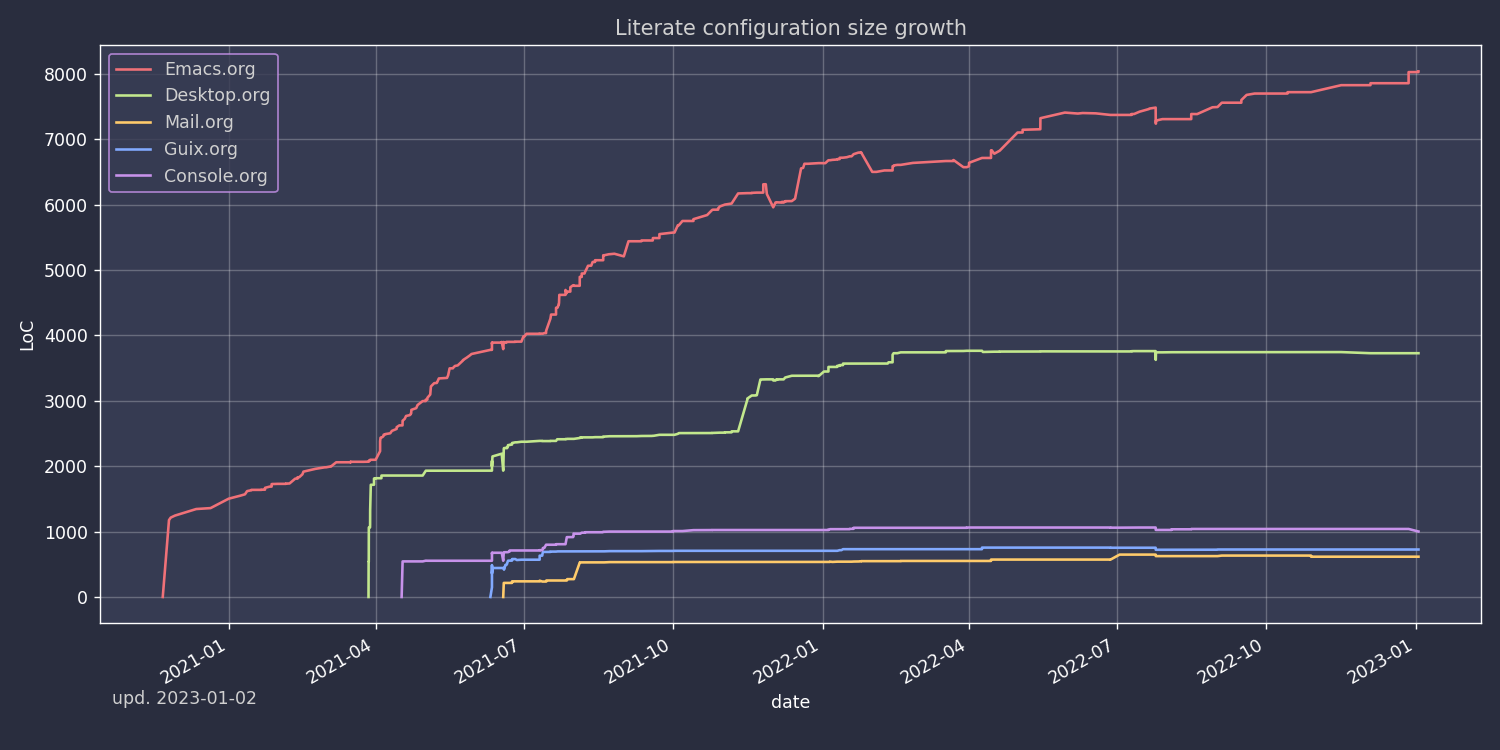
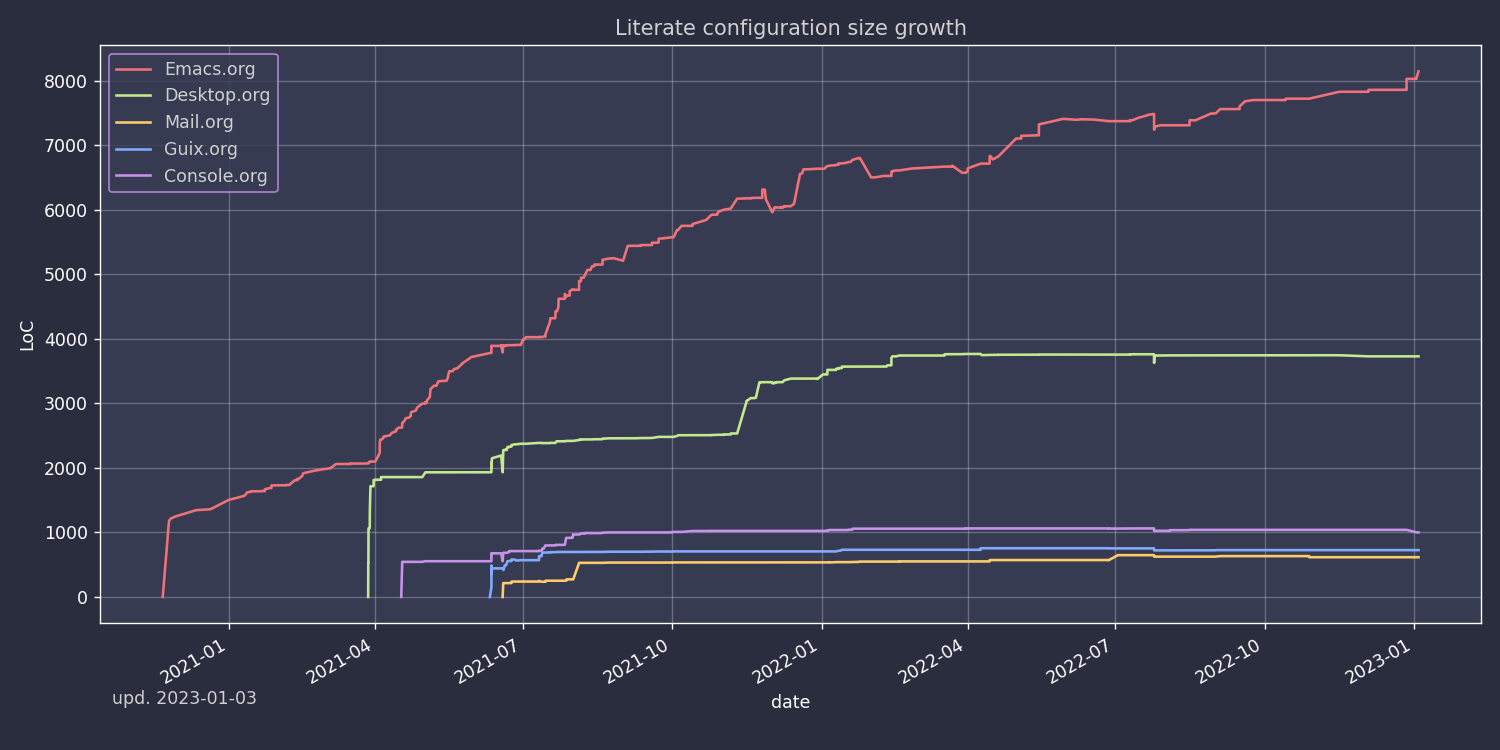
deploy: 280e0ed2e5447ba26fc20837575d41c52895d1c3

diff --git a/configs/emacs/index.html b/configs/emacs/index.html
@@ -6796,12 +6796,20 @@ Emacs is also particularly good at writing Lisp code, e.g. Clojure, Common Lisp,
 </span></span><span style="display:flex;"><span>		      (<span style="color:#008000">setq</span> <span style="color:#19177c">zone-programs</span> (<span style="color:#00f">vector</span> (<span style="color:#00f">cdr</span> <span style="color:#19177c">elem</span>)))
 </span></span><span style="display:flex;"><span>		      (<span style="color:#19177c">zone</span>))))
 </span></span></code></pre></div><h4 id="gource">Gource</h4>
-<p><a href="https://gource.io/">Gource</a> is a nice repository visualization tool.</p>
-<p>The goal of the functions below is to run the tool for multiple repos from Dired. Maybe I&rsquo;ll extract it into a separate package at some point, but I&rsquo;m fine with letting it live here for now.</p>
+<p><a href="https://gource.io/">Gource</a> is a program that draws an animated graph of users changing the repository over time.</p>
+<p>Although it can work without extra effort (just run <code>gource</code> in a <a href="https://git-scm.com/">git</a> repo), there are some tweaks that can be done:</p>
+<ul>
+<li>Gource supports using custom pictures for users. <a href="https://en.gravatar.com/">Gravatar</a> is an obvious place to get these.</li>
+<li>Occasionally, the same people have different names and/or emails in history.<br />
+It may happen when people use forges like <a href="https://gitlab.com/">GitLab</a> or just have different settings on different machines. It would be nice to merge these names.</li>
+<li>Visualizing the history of multiple repositories (e.g. frontend and backend) requires combining multiple gource logs.</li>
+</ul>
+<p>So, why not try doing that with Emacs?</p>
 <h5 id="gravatars">Gravatars</h5>
-<p>Gource can use pictures to visualize users, so I want to use gravatars. It&rsquo;s quite amazing that Emacs has a built-in gravatar package.</p>
-<p>First, retrieve a particular gravatar, with a fallback to identicon if necessary:</p>
+<p>Much to my surprise, Emacs turned out to have a built-in package called <a href="https://github.com/emacs-mirror/emacs/blob/master/lisp/image/gravatar.el">gravatar.el</a>.</p>
+<p>So, let&rsquo;s make a function to retrieve a gravatar and save it:</p>
 <div class="highlight"><pre tabindex="0" style=";-moz-tab-size:4;-o-tab-size:4;tab-size:4;"><code class="language-emacs-lisp" data-lang="emacs-lisp"><span style="display:flex;"><span>(<span style="color:#008000">defun</span> <span style="color:#19177c">my/gravatar-retrieve-sync</span> (<span style="color:#19177c">email</span> <span style="color:#19177c">file-name</span>)
+</span></span><span style="display:flex;"><span>  <span style="color:#ba2121">&#34;Get gravatar for EMAIL and save it to FILE-NAME.&#34;</span>
 </span></span><span style="display:flex;"><span>  (<span style="color:#008000">let</span> ((<span style="color:#19177c">gravatar-default-image</span> <span style="color:#ba2121">&#34;identicon&#34;</span>)
 </span></span><span style="display:flex;"><span>	(<span style="color:#19177c">gravatar-size</span> <span style="color:#800">nil</span>)
 </span></span><span style="display:flex;"><span>	(<span style="color:#19177c">coding-system-for-write</span> <span style="color:#19177c">&#39;binary</span>)
@@ -6810,19 +6818,44 @@ Emacs is also particularly good at writing Lisp code, e.g. Clojure, Common Lisp,
 </span></span><span style="display:flex;"><span>    (<span style="color:#00f">write-region</span>
 </span></span><span style="display:flex;"><span>     (<span style="color:#19177c">image-property</span> (<span style="color:#19177c">gravatar-retrieve-synchronously</span> <span style="color:#19177c">email</span>) <span style="color:#008000">:data</span>)
 </span></span><span style="display:flex;"><span>     <span style="color:#800">nil</span> <span style="color:#19177c">file-name</span> <span style="color:#800">nil</span> <span style="color:#008000">:silent</span>)))
-</span></span></code></pre></div><p>These images have to be saved to a folder, with the name corresponding to the git username.</p>
+</span></span></code></pre></div><p>To use these images, we need to save them to some folder and use usernames as file names. The folder:</p>
 <div class="highlight"><pre tabindex="0" style=";-moz-tab-size:4;-o-tab-size:4;tab-size:4;"><code class="language-emacs-lisp" data-lang="emacs-lisp"><span style="display:flex;"><span>(<span style="color:#008000">setq</span> <span style="color:#19177c">my/gravatar-folder</span> <span style="color:#ba2121">&#34;/home/pavel/.cache/gravatars/&#34;</span>)
-</span></span><span style="display:flex;"><span>
-</span></span><span style="display:flex;"><span>(<span style="color:#008000">defun</span> <span style="color:#19177c">my/gravatar-save</span> (<span style="color:#19177c">email</span> <span style="color:#19177c">author</span>)
+</span></span></code></pre></div><p>And the function that downloads a gravatar if necessary:</p>
+<div class="highlight"><pre tabindex="0" style=";-moz-tab-size:4;-o-tab-size:4;tab-size:4;"><code class="language-emacs-lisp" data-lang="emacs-lisp"><span style="display:flex;"><span>(<span style="color:#008000">defun</span> <span style="color:#19177c">my/gravatar-save</span> (<span style="color:#19177c">email</span> <span style="color:#19177c">author</span>)
+</span></span><span style="display:flex;"><span>  <span style="color:#ba2121">&#34;Download gravatar for EMAIL.
+</span></span></span><span style="display:flex;"><span><span style="color:#ba2121">
+</span></span></span><span style="display:flex;"><span><span style="color:#ba2121">AUTHOR is the username.&#34;</span>
 </span></span><span style="display:flex;"><span>  (<span style="color:#008000">let</span> ((<span style="color:#19177c">file-name</span> (<span style="color:#00f">concat</span> <span style="color:#19177c">my/gravatar-folder</span> <span style="color:#19177c">author</span> <span style="color:#ba2121">&#34;.png&#34;</span>)))
 </span></span><span style="display:flex;"><span>    (<span style="color:#19177c">mkdir</span> <span style="color:#19177c">my/gravatar-folder</span> <span style="color:#800">t</span>)
 </span></span><span style="display:flex;"><span>    (<span style="color:#008000">unless</span> (<span style="color:#00f">file-exists-p</span> <span style="color:#19177c">file-name</span>)
 </span></span><span style="display:flex;"><span>      (<span style="color:#00f">message</span> <span style="color:#ba2121">&#34;Fetching gravatar for %s (%s)&#34;</span> <span style="color:#19177c">author</span> <span style="color:#19177c">email</span>)
 </span></span><span style="display:flex;"><span>      (<span style="color:#19177c">my/gravatar-retrieve-sync</span> <span style="color:#19177c">email</span> <span style="color:#19177c">file-name</span>))))
-</span></span></code></pre></div><h5 id="author-names">Author names</h5>
-<p>That&rsquo;s a hell of a function&hellip;</p>
-<p>The problem it tries to solve is that, at least in the repos I&rsquo;m working with, one person can have different commits signed by different emails with the same username, or by same username with different emails. So this function tries to extract and match all such users.</p>
+</span></span></code></pre></div><h5 id="merging-authors">Merging authors</h5>
+<p>Now to merging authors.</p>
+<p>Gource itself uses only usernames (without emails), but we can use <code>git log</code> to get both. The required information can be extracted like that:</p>
+<div class="highlight"><pre tabindex="0" style=";-moz-tab-size:4;-o-tab-size:4;tab-size:4;"><code class="language-bash" data-lang="bash"><span style="display:flex;"><span>git log --pretty<span style="color:#666">=</span>format:<span style="color:#ba2121">&#34;%ae|%an&#34;</span> | sort | uniq -c | sed <span style="color:#ba2121">&#34;s/^[ \t]*//;s/ /|/&#34;</span>
+</span></span></code></pre></div><p>The output is a list of pipe-separated strings, where the values are:</p>
+<ul>
+<li>Number of occurrences for this combination of username and email</li>
+<li>Email</li>
+<li>Username</li>
+</ul>
+<p>Of course, that part would have to be changed appropriately for other version control systems if you happen to use one.</p>
+<p>So, below is one hell of a function that wraps this command and tries to merge emails and usernames belonging to one author:</p>
 <div class="highlight"><pre tabindex="0" style=";-moz-tab-size:4;-o-tab-size:4;tab-size:4;"><code class="language-emacs-lisp" data-lang="emacs-lisp"><span style="display:flex;"><span>(<span style="color:#008000">defun</span> <span style="color:#19177c">my/git-get-authors</span> (<span style="color:#19177c">repo</span> <span style="color:#008000">&amp;optional</span> <span style="color:#19177c">authors-init</span>)
+</span></span><span style="display:flex;"><span>  <span style="color:#ba2121">&#34;Extract and merge all combinations of authors &amp; emails from REPO.
+</span></span></span><span style="display:flex;"><span><span style="color:#ba2121">
+</span></span></span><span style="display:flex;"><span><span style="color:#ba2121">REPO is the path to a git repository.
+</span></span></span><span style="display:flex;"><span><span style="color:#ba2121">
+</span></span></span><span style="display:flex;"><span><span style="color:#ba2121">AUTHORS-INIT is the previous output of </span><span style="color:#19177c">`my/git-get-authors&#39;</span><span style="color:#ba2121">.  It can
+</span></span></span><span style="display:flex;"><span><span style="color:#ba2121">be used to extract that information from multiple repositories.
+</span></span></span><span style="display:flex;"><span><span style="color:#ba2121">
+</span></span></span><span style="display:flex;"><span><span style="color:#ba2121">The output is a list of alists with following keys:
+</span></span></span><span style="display:flex;"><span><span style="color:#ba2121">- emails: list of (&lt;email&gt; . &lt;count&gt;)
+</span></span></span><span style="display:flex;"><span><span style="color:#ba2121">- authors: list of (&lt;username&gt; . &lt;count&gt;)
+</span></span></span><span style="display:flex;"><span><span style="color:#ba2121">- email: the most popular email
+</span></span></span><span style="display:flex;"><span><span style="color:#ba2121">- author: the most popular username
+</span></span></span><span style="display:flex;"><span><span style="color:#ba2121">I.e. one alist is all emails and usernames of one author.&#34;</span>
 </span></span><span style="display:flex;"><span>  (<span style="color:#008000">let*</span> ((<span style="color:#19177c">default-directory</span> <span style="color:#19177c">repo</span>)
 </span></span><span style="display:flex;"><span>	 (<span style="color:#19177c">data</span> (<span style="color:#19177c">shell-command-to-string</span>
 </span></span><span style="display:flex;"><span>		<span style="color:#ba2121">&#34;git log --pretty=format:\&#34;%ae|%an\&#34; | sort | uniq -c | sed \&#34;s/^[ \t]*//;s/ /|/\&#34;&#34;</span>))
@@ -6890,8 +6923,41 @@ Emacs is also particularly good at writing Lisp code, e.g. Clojure, Common Lisp,
 </span></span><span style="display:flex;"><span>	  <span style="color:#19177c">acc</span>))
 </span></span><span style="display:flex;"><span>      <span style="color:#19177c">authors</span>
 </span></span><span style="display:flex;"><span>      <span style="color:#008000">:initial-value</span> <span style="color:#19177c">authors-init</span>))))
-</span></span></code></pre></div><h5 id="get-gource-log">Get Gource Log</h5>
+</span></span></code></pre></div><p>Despite the probable we-enjoy-typing-ness of the implementation, it&rsquo;s actually pretty simple:</p>
+<ul>
+<li>The output of <code>git log</code> is parsed into a list of alists with <code>count</code>, <code>email</code> and <code>author</code> as keys.</li>
+<li>This list is reduced by <code>cl-reduce</code> into a list of alists with <code>emails</code> and <code>authors</code> as keys and the respective counts as values, e.g. <code>((&lt;email-1&gt; . 1) (&lt;email-2&gt; . 3))</code>.<br />
+I&rsquo;ve seen a couple of cases where people would swap their username and email (lol), so <code>seq-find</code> also looks for an email in the list of authors and vice versa.</li>
+<li>The <code>mapcar</code> call determines the most popular email and username for each authors.</li>
+</ul>
+<p>The output is another list of alists, now with the following keys:</p>
+<ul>
+<li><code>emails</code> - list of elements like <code>(&lt;email&gt; . &lt;count&gt;)</code></li>
+<li><code>authors</code> - list of elements like <code>(&lt;author-name&gt; . &lt;count&gt;)</code></li>
+<li><code>email</code> - the most popular email</li>
+<li><code>author</code> - the most popular username.</li>
+</ul>
+<h5 id="running-for-multiple-repos">Running for multiple repos</h5>
+<p>This section was mostly informed by <a href="https://github.com/acaudwell/Gource/wiki/Visualizing-Multiple-Repositories">this page</a> in the <a href="https://github.com/acaudwell/Gource/wiki">gource wiki</a>.</p>
+<p>As I said above, by default <code>gource</code> just creates a visualization for the current repo. To change something in it, we need to invoke the program like that: <code>gource --output-custom-log PATH</code>, where <code>PATH</code> is either the path to the log file or <code>-</code> for stdout.</p>
+<p>The log consists of lines of pipe-separated strings, e.g.:</p>
+<div class="highlight"><pre tabindex="0" style=";-moz-tab-size:4;-o-tab-size:4;tab-size:4;"><code class="language-text" data-lang="text"><span style="display:flex;"><span>1600769568|dsofronov|A|/studentor/.dockerignore
+</span></span><span style="display:flex;"><span>1600769568|dsofronov|A|/studentor/.editorconfig
+</span></span><span style="display:flex;"><span>1600769568|dsofronov|A|/studentor/.flake8
+</span></span><span style="display:flex;"><span>1600769568|dsofronov|A|/studentor/.gitignore
+</span></span></code></pre></div><p>where the values of one line are:</p>
+<ul>
+<li>UNIX timestamp</li>
+<li>Author name</li>
+<li><code>A</code> for add, <code>M</code> for modify, and <code>D</code> for delete</li>
+<li>Path to file</li>
+</ul>
+<p>The file has to be sorted by the timestamp in ascending order.</p>
+<p>So, the function that prepares the log for one repository:</p>
 <div class="highlight"><pre tabindex="0" style=";-moz-tab-size:4;-o-tab-size:4;tab-size:4;"><code class="language-emacs-lisp" data-lang="emacs-lisp"><span style="display:flex;"><span>(<span style="color:#008000">defun</span> <span style="color:#19177c">my/gource-prepare-log</span> (<span style="color:#19177c">repo</span> <span style="color:#19177c">authors</span>)
+</span></span><span style="display:flex;"><span>  <span style="color:#ba2121">&#34;Create gource log string for REPO.
+</span></span></span><span style="display:flex;"><span><span style="color:#ba2121">
+</span></span></span><span style="display:flex;"><span><span style="color:#ba2121">AUTHORS is the output of </span><span style="color:#19177c">`my/git-get-authors&#39;</span><span style="color:#ba2121">.&#34;</span>
 </span></span><span style="display:flex;"><span>  (<span style="color:#008000">let</span> ((<span style="color:#00f">log</span> (<span style="color:#19177c">shell-command-to-string</span>
 </span></span><span style="display:flex;"><span>	      (<span style="color:#00f">concat</span>
 </span></span><span style="display:flex;"><span>	       <span style="color:#ba2121">&#34;gource --output-custom-log - &#34;</span>
@@ -6915,36 +6981,58 @@ Emacs is also particularly good at writing Lisp code, e.g. Clojure, Common Lisp,
 </span></span><span style="display:flex;"><span>			      (<span style="color:#00f">concat</span> <span style="color:#ba2121">&#34;/&#34;</span> <span style="color:#19177c">prefix</span> (<span style="color:#00f">nth</span> <span style="color:#666">3</span> <span style="color:#19177c">fragments</span>))))
 </span></span><span style="display:flex;"><span>		      (<span style="color:#19177c">string-join</span> <span style="color:#19177c">fragments</span> <span style="color:#ba2121">&#34;|&#34;</span>))
 </span></span><span style="display:flex;"><span>	     <span style="color:#00f">concat</span> <span style="color:#ba2121">&#34;\n&#34;</span>)))
-</span></span></code></pre></div><div class="highlight"><pre tabindex="0" style=";-moz-tab-size:4;-o-tab-size:4;tab-size:4;"><code class="language-emacs-lisp" data-lang="emacs-lisp"><span style="display:flex;"><span>(<span style="color:#008000">defun</span> <span style="color:#19177c">my/gource-dired-create-logs</span> (<span style="color:#19177c">repos</span> <span style="color:#19177c">log-name</span>)
+</span></span></code></pre></div><p>This function:</p>
+<ul>
+<li>Downloads a gravatar for each author</li>
+<li>Replaces all usernames of one author with the most frequent one</li>
+<li>Prepends the file path with the repository name.</li>
+</ul>
+<p>The output is a string in the gource log format as described above.</p>
+<p>Finally, as we need to invoke all of this for multiple repositories, why not do that with <a href="https://www.gnu.org/software/emacs/manual/html_node/emacs/Dired.html">dired</a>:</p>
+<div class="highlight"><pre tabindex="0" style=";-moz-tab-size:4;-o-tab-size:4;tab-size:4;"><code class="language-emacs-lisp" data-lang="emacs-lisp"><span style="display:flex;"><span>(<span style="color:#008000">defun</span> <span style="color:#19177c">my/gource-dired-create-logs</span> (<span style="color:#19177c">repos</span> <span style="color:#19177c">log-name</span>)
+</span></span><span style="display:flex;"><span>  <span style="color:#ba2121">&#34;Create combined gource log for REPOS.
+</span></span></span><span style="display:flex;"><span><span style="color:#ba2121">
+</span></span></span><span style="display:flex;"><span><span style="color:#ba2121">REPOS is a list of strings, where a string is a path to a git repo.
+</span></span></span><span style="display:flex;"><span><span style="color:#ba2121">LOG-NAME is the path to the resulting log file.
+</span></span></span><span style="display:flex;"><span><span style="color:#ba2121">
+</span></span></span><span style="display:flex;"><span><span style="color:#ba2121">This function is meant to be invoked from </span><span style="color:#19177c">`dired&#39;</span><span style="color:#ba2121">, where the required
+</span></span></span><span style="display:flex;"><span><span style="color:#ba2121">repositories are marked.&#34;</span>
 </span></span><span style="display:flex;"><span>  (<span style="color:#008000">interactive</span> (<span style="color:#00f">list</span> (<span style="color:#008000">or</span> (<span style="color:#19177c">dired-get-marked-files</span> <span style="color:#800">nil</span> <span style="color:#800">nil</span> <span style="color:#00f">#&#39;file-directory-p</span>)
 </span></span><span style="display:flex;"><span>			 (<span style="color:#d2413a;font-weight:bold">user-error</span> <span style="color:#ba2121">&#34;Select at least one directory&#34;</span>))
 </span></span><span style="display:flex;"><span>		     (<span style="color:#19177c">read-file-name</span> <span style="color:#ba2121">&#34;Log file name: &#34;</span> <span style="color:#800">nil</span> <span style="color:#ba2121">&#34;combined.log&#34;</span>)))
-</span></span><span style="display:flex;"><span>  (<span style="color:#008000">let*</span> ((<span style="color:#19177c">authors</span>
-</span></span><span style="display:flex;"><span>	  (<span style="color:#19177c">cl-reduce</span>
-</span></span><span style="display:flex;"><span>	   (<span style="color:#008000">lambda</span> (<span style="color:#19177c">acc</span> <span style="color:#19177c">repo</span>)
-</span></span><span style="display:flex;"><span>	     (<span style="color:#19177c">my/git-get-authors</span> <span style="color:#19177c">repo</span> <span style="color:#19177c">acc</span>))
-</span></span><span style="display:flex;"><span>	   <span style="color:#19177c">repos</span>
-</span></span><span style="display:flex;"><span>	   <span style="color:#008000">:initial-value</span> <span style="color:#800">nil</span>))
-</span></span><span style="display:flex;"><span>	 (<span style="color:#19177c">logs</span> (<span style="color:#19177c">string-join</span>
-</span></span><span style="display:flex;"><span>		(<span style="color:#19177c">seq-filter</span>
-</span></span><span style="display:flex;"><span>		 (<span style="color:#008000">lambda</span> (<span style="color:#19177c">line</span>)
-</span></span><span style="display:flex;"><span>		   (<span style="color:#19177c">not</span> (<span style="color:#19177c">string-empty-p</span> <span style="color:#19177c">line</span>)))
-</span></span><span style="display:flex;"><span>		 (<span style="color:#19177c">seq-sort-by</span>
-</span></span><span style="display:flex;"><span>		  (<span style="color:#008000">lambda</span> (<span style="color:#19177c">line</span>)
-</span></span><span style="display:flex;"><span>		    (<span style="color:#19177c">if-let</span> (<span style="color:#19177c">time</span> (<span style="color:#00f">car</span> (<span style="color:#19177c">split-string</span> <span style="color:#19177c">line</span> <span style="color:#ba2121">&#34;|&#34;</span>)))
-</span></span><span style="display:flex;"><span>			(<span style="color:#00f">string-to-number</span> <span style="color:#19177c">time</span>)
-</span></span><span style="display:flex;"><span>		      <span style="color:#666">0</span>))
-</span></span><span style="display:flex;"><span>		  <span style="color:#00f">#&#39;&lt;</span>
-</span></span><span style="display:flex;"><span>		  (<span style="color:#19177c">split-string</span>
-</span></span><span style="display:flex;"><span>		   (<span style="color:#00f">mapconcat</span>
-</span></span><span style="display:flex;"><span>		    (<span style="color:#008000">lambda</span> (<span style="color:#19177c">repo</span>)
-</span></span><span style="display:flex;"><span>		      (<span style="color:#19177c">my/gource-prepare-log</span> <span style="color:#19177c">repo</span> <span style="color:#19177c">authors</span>))
-</span></span><span style="display:flex;"><span>		    <span style="color:#19177c">repos</span> <span style="color:#ba2121">&#34;\n&#34;</span>)
-</span></span><span style="display:flex;"><span>		   <span style="color:#ba2121">&#34;\n&#34;</span>)))
-</span></span><span style="display:flex;"><span>		<span style="color:#ba2121">&#34;\n&#34;</span>)))
+</span></span><span style="display:flex;"><span>  (<span style="color:#008000">let</span> ((<span style="color:#19177c">authors</span>
+</span></span><span style="display:flex;"><span>	 (<span style="color:#19177c">cl-reduce</span>
+</span></span><span style="display:flex;"><span>	  (<span style="color:#008000">lambda</span> (<span style="color:#19177c">acc</span> <span style="color:#19177c">repo</span>)
+</span></span><span style="display:flex;"><span>	    (<span style="color:#19177c">my/git-get-authors</span> <span style="color:#19177c">repo</span> <span style="color:#19177c">acc</span>))
+</span></span><span style="display:flex;"><span>	  <span style="color:#19177c">repos</span>
+</span></span><span style="display:flex;"><span>	  <span style="color:#008000">:initial-value</span> <span style="color:#800">nil</span>)))
 </span></span><span style="display:flex;"><span>    (<span style="color:#008000">with-temp-file</span> <span style="color:#19177c">log-name</span>
-</span></span><span style="display:flex;"><span>      (<span style="color:#00f">insert</span> <span style="color:#19177c">logs</span>))))
-</span></span></code></pre></div><h2 id="guix-settings">Guix settings</h2>
+</span></span><span style="display:flex;"><span>      (<span style="color:#00f">insert</span>
+</span></span><span style="display:flex;"><span>       (<span style="color:#19177c">string-join</span>
+</span></span><span style="display:flex;"><span>	(<span style="color:#19177c">seq-filter</span>
+</span></span><span style="display:flex;"><span>	 (<span style="color:#008000">lambda</span> (<span style="color:#19177c">line</span>)
+</span></span><span style="display:flex;"><span>	   (<span style="color:#19177c">not</span> (<span style="color:#19177c">string-empty-p</span> <span style="color:#19177c">line</span>)))
+</span></span><span style="display:flex;"><span>	 (<span style="color:#19177c">seq-sort-by</span>
+</span></span><span style="display:flex;"><span>	  (<span style="color:#008000">lambda</span> (<span style="color:#19177c">line</span>)
+</span></span><span style="display:flex;"><span>	    (<span style="color:#19177c">if-let</span> (<span style="color:#19177c">time</span> (<span style="color:#00f">car</span> (<span style="color:#19177c">split-string</span> <span style="color:#19177c">line</span> <span style="color:#ba2121">&#34;|&#34;</span>)))
+</span></span><span style="display:flex;"><span>		(<span style="color:#00f">string-to-number</span> <span style="color:#19177c">time</span>)
+</span></span><span style="display:flex;"><span>	      <span style="color:#666">0</span>))
+</span></span><span style="display:flex;"><span>	  <span style="color:#00f">#&#39;&lt;</span>
+</span></span><span style="display:flex;"><span>	  (<span style="color:#19177c">split-string</span>
+</span></span><span style="display:flex;"><span>	   (<span style="color:#00f">mapconcat</span>
+</span></span><span style="display:flex;"><span>	    (<span style="color:#008000">lambda</span> (<span style="color:#19177c">repo</span>)
+</span></span><span style="display:flex;"><span>	      (<span style="color:#19177c">my/gource-prepare-log</span> <span style="color:#19177c">repo</span> <span style="color:#19177c">authors</span>))
+</span></span><span style="display:flex;"><span>	    <span style="color:#19177c">repos</span> <span style="color:#ba2121">&#34;\n&#34;</span>)
+</span></span><span style="display:flex;"><span>	   <span style="color:#ba2121">&#34;\n&#34;</span>)))
+</span></span><span style="display:flex;"><span>	<span style="color:#ba2121">&#34;\n&#34;</span>)))))
+</span></span></code></pre></div><p>This function extracts authors from each repository and merges the logs as required by gource, that is sorting the result by time in ascending order.</p>
+<h5 id="using-the-function">Using the function</h5>
+<p>To use the function above, mark the required repos in a dired buffer and run <code>M-x my/gource-dired-create-logs</code>. This also works nicely with <a href="https://github.com/Fuco1/dired-hacks">dired-subtree</a>, in case your repos are located in different folders.</p>
+<p>The function will create a combined log file (by default <code>combined.log</code>). To visualize the log, run:</p>
+<div class="highlight"><pre tabindex="0" style=";-moz-tab-size:4;-o-tab-size:4;tab-size:4;"><code class="language-bash" data-lang="bash"><span style="display:flex;"><span>gource &lt;log-file&gt; --user-image-dir &lt;path-to-gravatars&gt;
+</span></span></code></pre></div><p>Check the <a href="https://github.com/acaudwell/Gource">README</a> for possible parameters, such as the speed of visualization, different elements, etc. That&rsquo;s it!</p>
+<p>I thought about making something like a <a href="https://github.com/magit/transient">transient.el</a> wrapper around the <code>gource</code> command but figured it wasn&rsquo;t worth the effort for something that I run just a handful of times in a year.</p>
+<h2 id="guix-settings">Guix settings</h2>
 <table>
 <thead>
 <tr>
